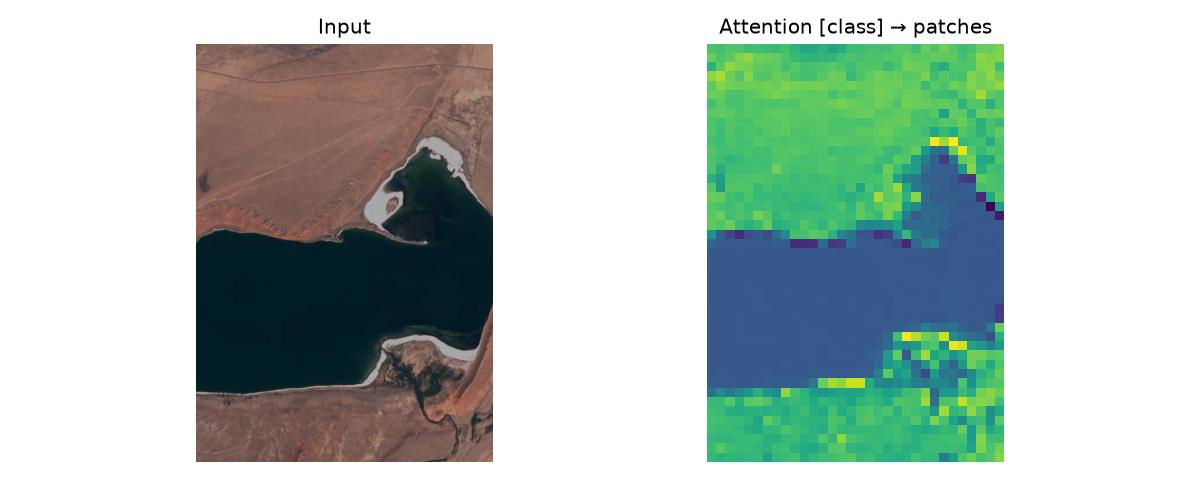
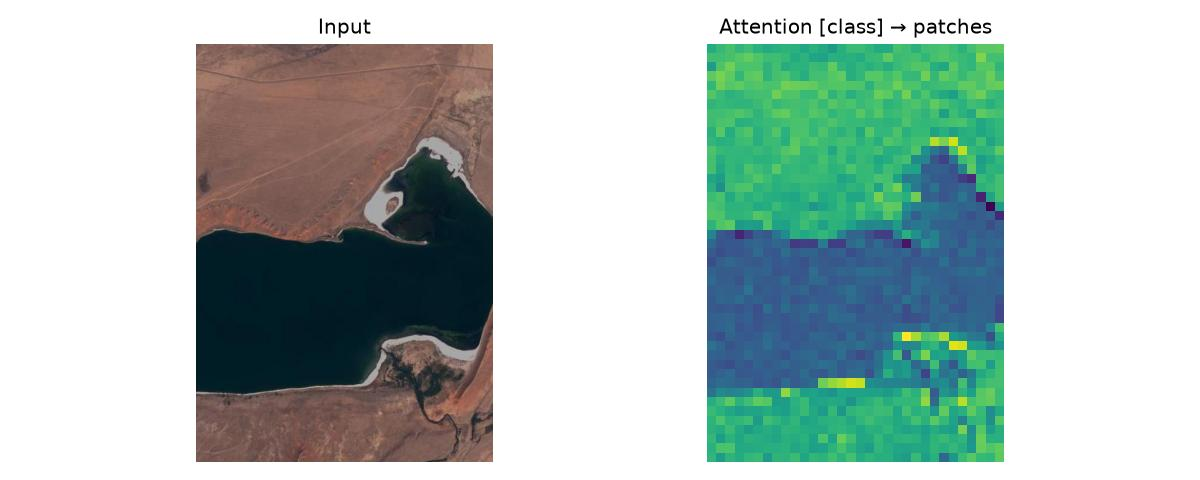
report trasformer encoder

diff --git a/transformer_encoder.py b/transformer_encoder.py
@@ -1,6 +1,7 @@
 import torch
 import torch.nn as nn
 import torch.nn.functional as F
+from torch.utils.flop_counter import FlopCounterMode
 
 
 def scaled_dot_product_attention(Q, K, V, mask=None):
@@ -75,6 +76,13 @@ class EncoderBlock(nn.Module):
         return x, weights
 
 
+def encoder_flops(T, d_model, d_ff):
+    """FLOPs of one encoder block (B=1), matmuls only: 1 MAC = 2 FLOPs."""
+    linear = 2 * (4 * T * d_model ** 2 + 2 * T * d_model * d_ff)  # W_q, W_k, W_v, W_o + FFN
+    attn = 2 * (2 * T ** 2 * d_model)                             # Q·Kᵀ and weights·V
+    return linear, attn
+
+
 def main():
     torch.manual_seed(0)
     B, H, T, d_k, d_v = 2, 4, 5, 16, 16
@@ -87,6 +95,27 @@ def main():
     print("Matches F.scaled_dot_product_attention:", torch.allclose(mine, ref, atol=1e-6))
     print("Max abs difference:                    ", (mine - ref).abs().max().item())
 
+    causal = torch.tril(torch.ones(T, T, dtype=torch.bool))     # True = attend
+    mine, _ = scaled_dot_product_attention(Q, K, V, mask=causal)
+    ref = F.scaled_dot_product_attention(Q, K, V, attn_mask=causal)
+    print("Matches with causal mask:              ", torch.allclose(mine, ref, atol=1e-6))
+
+    torch.manual_seed(0)
+    d_model, num_heads = 32, 4
+    mha = MultiHeadAttention(d_model, num_heads).eval()
+    ref_mha = nn.MultiheadAttention(d_model, num_heads, batch_first=True).eval()
+    with torch.no_grad():
+        ref_mha.in_proj_weight.copy_(torch.cat([mha.W_q.weight, mha.W_k.weight, mha.W_v.weight]))
+        ref_mha.in_proj_bias.copy_(torch.cat([mha.W_q.bias, mha.W_k.bias, mha.W_v.bias]))
+        ref_mha.out_proj.weight.copy_(mha.W_o.weight)
+        ref_mha.out_proj.bias.copy_(mha.W_o.bias)
+
+        x = torch.randn(B, T, d_model)
+        out, weights = mha(x)
+        ref_out, ref_weights = ref_mha(x, x, x, average_attn_weights=False)
+    print("MHA matches nn.MultiheadAttention:     ",
+          torch.allclose(out, ref_out, atol=1e-6) and torch.allclose(weights, ref_weights, atol=1e-6))
+
     torch.manual_seed(0)
     B, T, d_model, num_heads, d_ff = 2, 5, 32, 4, 64
     block = EncoderBlock(d_model, num_heads, d_ff).eval()
@@ -96,10 +125,25 @@ def main():
     print("EncoderBlock output:                   ", tuple(out.shape))      # (B, T, d_model)
     print("Attention weights:                     ", tuple(weights.shape))  # (B, num_heads, T, T)
 
-    encoder = nn.ModuleList([EncoderBlock(d_model, num_heads, d_ff) for _ in range(6)])
+    encoder = nn.ModuleList([EncoderBlock(d_model, num_heads, d_ff) for _ in range(6)]).eval()
     for blk in encoder:
         x, _ = blk(x)
     print("Stack of 6 blocks output:              ", tuple(x.shape))        # (B, T, d_model)
+
+    # Cost of one block of the paper's base model vs. number of tokens
+    d_model, num_heads, d_ff = 512, 8, 2048
+    block = EncoderBlock(d_model, num_heads, d_ff).eval()
+    print()
+    print(f"{'T':>6} {'Linear, GFLOPs':>15} {'Attn, GFLOPs':>13} {'Attn share':>11} "
+          f"{'Measured':>9} {'Scores, MB':>11}")
+    for T in [128, 512, 1024, 2048, 3072, 4096, 8192]:
+        linear, attn = encoder_flops(T, d_model, d_ff)
+        with FlopCounterMode(display=False) as counter, torch.no_grad():
+            block(torch.randn(1, T, d_model))
+        measured = counter.get_total_flops() == linear + attn
+        scores_mb = num_heads * T ** 2 * 4 / 1e6                     # float32, B=1
+        print(f"{T:>6} {linear / 1e9:>15.1f} {attn / 1e9:>13.1f} {attn / (linear + attn):>10.0%} "
+              f"{str(measured):>9} {scores_mb:>11.1f}")
 
 
 if __name__ == "__main__":

diff --git a/vit_model.py b/vit_model.py
@@ -58,6 +58,9 @@ class ViT(nn.Module):
         self.norm = nn.LayerNorm(d_model)
         self.head = nn.Linear(d_model, num_classes)
 
+        nn.init.trunc_normal_(self.cls_token, std=0.02)
+        nn.init.trunc_normal_(self.pos_embed, std=0.02)
+
     def forward(self, x):
         B = x.shape[0]
         x = self.patch_embed(x).flatten(2).transpose(1, 2)  # (B, N, D)

diff --git a/report/transformer_encoder.md b/report/transformer_encoder.md
@@ -63,13 +63,29 @@ Matches F.scaled_dot_product_attention: True
 Max abs difference:                     2.384185791015625e-07
 ```
 
-`True` означает совпадение с эталоном; `2.38e-07` — не ошибка, а естественный шум float32 (предел точности одинарной точности при таком числе сложений). Две оговорки: встроенная версия возвращает только `output` (без весов), а её аргумент `attn_mask` использует обратное соглашение (`True` = «оставить», тогда как здесь `mask == 0` = «запретить»).
+`True` означает совпадение с эталоном; `2.38e-07` — не ошибка, а естественный шум float32 (предел точности одинарной точности при таком числе сложений). Встроенная версия возвращает только `output` (без весов).
+
+**Сверка с маской.** Булева маска `torch.tril(...)` (causal: токен видит только себя и предыдущие) передаётся в обе функции. Соглашения совместимы: у `F.scaled_dot_product_attention` `True` в `attn_mask` = «можно смотреть», а здесь запрещены позиции, где `mask == 0`, то есть `False`:
+
+```
+Matches with causal mask:               True
+```
+
+**Сверка multi-head attention.** Своя `MultiHeadAttention` (§3) сравнивается с `nn.MultiheadAttention`: веса копируются — `in_proj_weight` = склеенные `[W_q; W_k; W_v]`, `out_proj` = `W_o` — и сравниваются и выход, и веса внимания каждой головы (`average_attn_weights=False`):
+
+```
+MHA matches nn.MultiheadAttention:      True
+```
 
 ---
 
 ## 3. Encoder-блок: multi-head attention, MLP, residual + LayerNorm
 
-**Multi-head attention.** Вместо одного внимания на всю размерность `d_model` режем её на `num_heads` голов, в каждой считаем внимание независимо той же функцией, потом склеиваем. Размерность головы `d_k = d_model / num_heads` (в статье `512 / 8 = 64`). «Нарезка на головы» — это просто reshape, без цикла: головы живут как ещё одна ось тензора и считаются параллельно.
+**Multi-head attention.**
+
+$$\text{MultiHead}(Q, K, V) = \text{Concat}(\text{head}_1, \dots, \text{head}_h)\,W^O,\quad \text{head}_i = \text{Attention}(QW_i^Q,\ KW_i^K,\ VW_i^V)$$
+
+Вместо одного внимания на всю размерность `d_model` режем её на `num_heads` голов, в каждой считаем внимание независимо той же функцией, потом склеиваем. Размерность головы `d_k = d_model / num_heads` (в статье `512 / 8 = 64`). «Нарезка на головы» — это просто reshape, без цикла: головы живут как ещё одна ось тензора и считаются параллельно.
 
 ```python
 Q = Q.view(B, T, self.num_heads, self.d_k).transpose(1, 2)  
@@ -130,7 +146,36 @@ x = self.norm2(x + self.dropout(ff_out))      # подслой 2: FFN
 | 2048 | ~134 МБ |
 | 4096 | ~537 МБ |
 
-Увеличивается в ~4 раза с каждым удвоением `T`, и это ещё умножается на число слоёв. Отсюда и стоимость «длинного контекста», и мотивация разреженного/линейного внимания (в статье упомянуто restricted self-attention с окном `r`, снижающим путь до $O(T/r)$).
+Увеличивается в ~4 раза с каждым удвоением `T`, и это ещё умножается на число слоёв.
+
+**Объём вычислений — конкретно.** Считаем только матричные умножения (1 умножение-сложение = 2 FLOPs) для одного блока при `B = 1`:
+
+| Часть | FLOPs | Зависимость от `T` |
+|---|---|---|
+| `W_q, W_k, W_v, W_o` | $2 \cdot 4\,T d^2$ | линейная |
+| FFN `d → d_ff → d` | $2 \cdot 2\,T d\,d_{ff}$ | линейная |
+| `Q·Kᵀ` и `weights·V` | $2 \cdot 2\,T^2 d$ | **квадратичная** |
+
+При `d_ff = 4d` линейные части дают $24\,T d^2$, внимание — $4\,T^2 d$. Они равны при $T = 6d$: для модели из статьи (`d = 512`) это `T = 3072`. При меньшем `T` основная стоимость — в проекциях и FFN, при большем — в матрице внимания.
+
+Скрипт считает эти числа для базовой модели статьи (`d_model = 512`, `H = 8`, `d_ff = 2048`) и сверяет формулу с реальным подсчётом `torch.utils.flop_counter.FlopCounterMode` на прямом проходе блока (столбец `Measured`):
+
+```
+     T  Linear, GFLOPs  Attn, GFLOPs  Attn share  Measured  Scores, MB
+   128             0.8           0.0         4%      True         0.5
+   512             3.2           0.5        14%      True         8.4
+  1024             6.4           2.1        25%      True        33.6
+  2048            12.9           8.6        40%      True       134.2
+  3072            19.3          19.3        50%      True       302.0
+  4096            25.8          34.4        57%      True       536.9
+  8192            51.5         137.4        73%      True      2147.5
+```
+
+- Для обычных предложений (`T` ≈ сотни) внимание — малая доля вычислений, всё определяется линейными слоями, и время растёт почти линейно по `T`.
+- После `T = 6d` квадратичный член доминирует: удвоение `T` с 4096 до 8192 удваивает линейную часть, но учетверяет внимание.
+- По памяти матрица весов `(H, T, T)` растёт так же квадратично (последний столбец), тогда как активации `(T, d)` — линейно.
+
+Отсюда и стоимость «длинного контекста», и мотивация разреженного/линейного внимания (в статье упомянуто restricted self-attention с окном `r`, снижающим путь до $O(T/r)$).
 
 ---
 
@@ -147,7 +192,12 @@ python transformer_encoder.py
 ```
 Matches F.scaled_dot_product_attention: True
 Max abs difference:                     2.384185791015625e-07
+Matches with causal mask:               True
+MHA matches nn.MultiheadAttention:      True
 EncoderBlock output:                    (2, 5, 32)      # выход блока: (B, T, d_model)
 Attention weights:                      (2, 4, 5, 5)    # веса внимания: (B, num_heads, T, T)
 Stack of 6 blocks output:               (2, 5, 32)      # после стека из 6 блоков — форма сохранилась
+
+     T  Linear, GFLOPs  Attn, GFLOPs  Attn share  Measured  Scores, MB
+   ...                                                                # таблица стоимости из §4
 ```

diff --git a/report/vit.md b/report/vit.md
@@ -43,6 +43,7 @@ Self-attention **перестановочно-инвариантен** — он 
 
 ```python
 self.pos_embed = nn.Parameter(torch.zeros(1, N + 1, D))
+nn.init.trunc_normal_(self.pos_embed, std=0.02)   # малый случайный шум, как в оригинальном коде
 z = z + self.pos_embed
 ```
 
@@ -60,6 +61,7 @@ z = z + self.pos_embed
 
 ```python
 self.cls_token = nn.Parameter(torch.zeros(1, 1, D))
+nn.init.trunc_normal_(self.cls_token, std=0.02)
 cls = self.cls_token.expand(B, -1, -1)      # (B, 1, D)
 z = torch.cat([cls, patches], dim=1)        # (B, N+1, D)
 ```
@@ -237,6 +239,8 @@ ViT(img_h, img_w, patch_size=16, in_channels=3, d_model=192,
 
 Ширина (`D = 192`, 3 головы, `d_ff = 768`) соответствует ViT-Tiny, глубина уменьшена с 12 до 6 блоков. Размер `pos_embed` вычисляется из размера изображения, поэтому модель принимает снимок в исходном разрешении (после обрезки до кратного 16).
 
+`cls_token` и `pos_embed` инициализируются усечённым нормальным распределением с `std = 0.02` (как в timm и в оригинальной реализации), а не нулями. При нулевом `pos_embed` все позиции до обучения неразличимы, и модель изначально видит изображение как «мешок патчей». Малый случайный шум делает каждую позицию уникальной с первого шага, а нулевой `cls_token` на входе ничем не отличался бы от любого другого токена с нулевым содержимым.
+
 ### Проход изображения через модель
 В `main()` прямой проход выполняется по шагам с печатью форм, затем результат сверяется с обычным вызовом `model(x)`:
 
@@ -262,9 +266,9 @@ Predicted class:      5 (random weights)
 - `Matches model(x): True` — ручной пошаговый проход совпадает с `forward`.
 
 ### Карта внимания
-По весам последнего блока берётся строка class-токена (`weights[0, :, 0, 1:]`), усредняется по головам и раскладывается обратно на сетку 45×32 (рис. 3).
+По весам последнего блока берётся строка class-токена (`weights[0, :, 0, 1:]`), усредняется по головам и раскладывается обратно на сетку 45×32.
 
-Модель **не обучена** (веса случайные, предсказанный класс ничего не значит), поэтому карта не отражает «смысл». Она показывает другое: при случайных проекциях скалярные произведения зависят только от цвета и текстуры патчей. Поэтому вся тёмная вода получает одинаковый низкий вес и сливается в одно пятно, суша — вес выше, а самые яркие патчи лежат на границе воды и берега, у белой солевой каймы, где контраст максимален. Это сегментация «по цвету», а не понимание сцены. Обученную карту внимания см. в §4.
+Модель **не обучена** (веса случайные, предсказанный класс ничего не значит), поэтому карта не отражает «смысл». Она показывает другое: при случайных проекциях скалярные произведения зависят только от цвета и текстуры патчей. Поэтому вся тёмная вода получает почти одинаковый низкий вес и сливается в одно пятно (мелкая «рябь» внутри него — вклад случайных позиционных эмбеддингов), суша — вес выше, а самые яркие патчи лежат на границе воды и берега, у белой солевой каймы, где контраст максимален. Это сегментация «по цвету», а не понимание сцены. Обученную карту внимания см. в §4.
 
 ![Рис. 3. Учебный ViT (случайные веса): внимание class-токена к патчам](../result_ViT/attention_map.jpg)
 
@@ -388,7 +392,7 @@ N = (R / P)²,   длина последовательности = N + 1 (с cla
 Выводы:
 - `N` растёт **квадратично по разрешению** и **обратно квадратично по размеру патча**: удвоение разрешения или уменьшение патча вдвое даёт в 4 раза больше токенов, а внимание — в ~16 раз дороже (`N²`).
 - Обозначение модели `/16`, `/32` в статье — это размер патча. ViT-B/32 при 224 работает всего с 50 токенами, ViT-B/16 — с 197: меньше патч → выше детализация, но дороже.
-- Если разрешение не делится на патч (224/14 → 16, 384/14 → 27, 1024/14 → 73), край изображения отбрасывается.
+- Если разрешение не делится на патч (384/14 → 27, 1024/14 → 73), край изображения отбрасывается.
 - Дообучение на 384 вместо 224 (§1.4) при P = 16 даёт 577 токенов вместо 197 — внимание дороже в ~8.6 раза, и позиционные эмбеддинги приходится интерполировать с сетки 14×14 на 24×24.
 - Мелкий патч на большом разрешении (1024/8) требует ~13 ГБ только на матрицы внимания одного слоя — поэтому для плотных задач и больших изображений используют иерархические ViT с локальным окном внимания (например, Swin).
 
